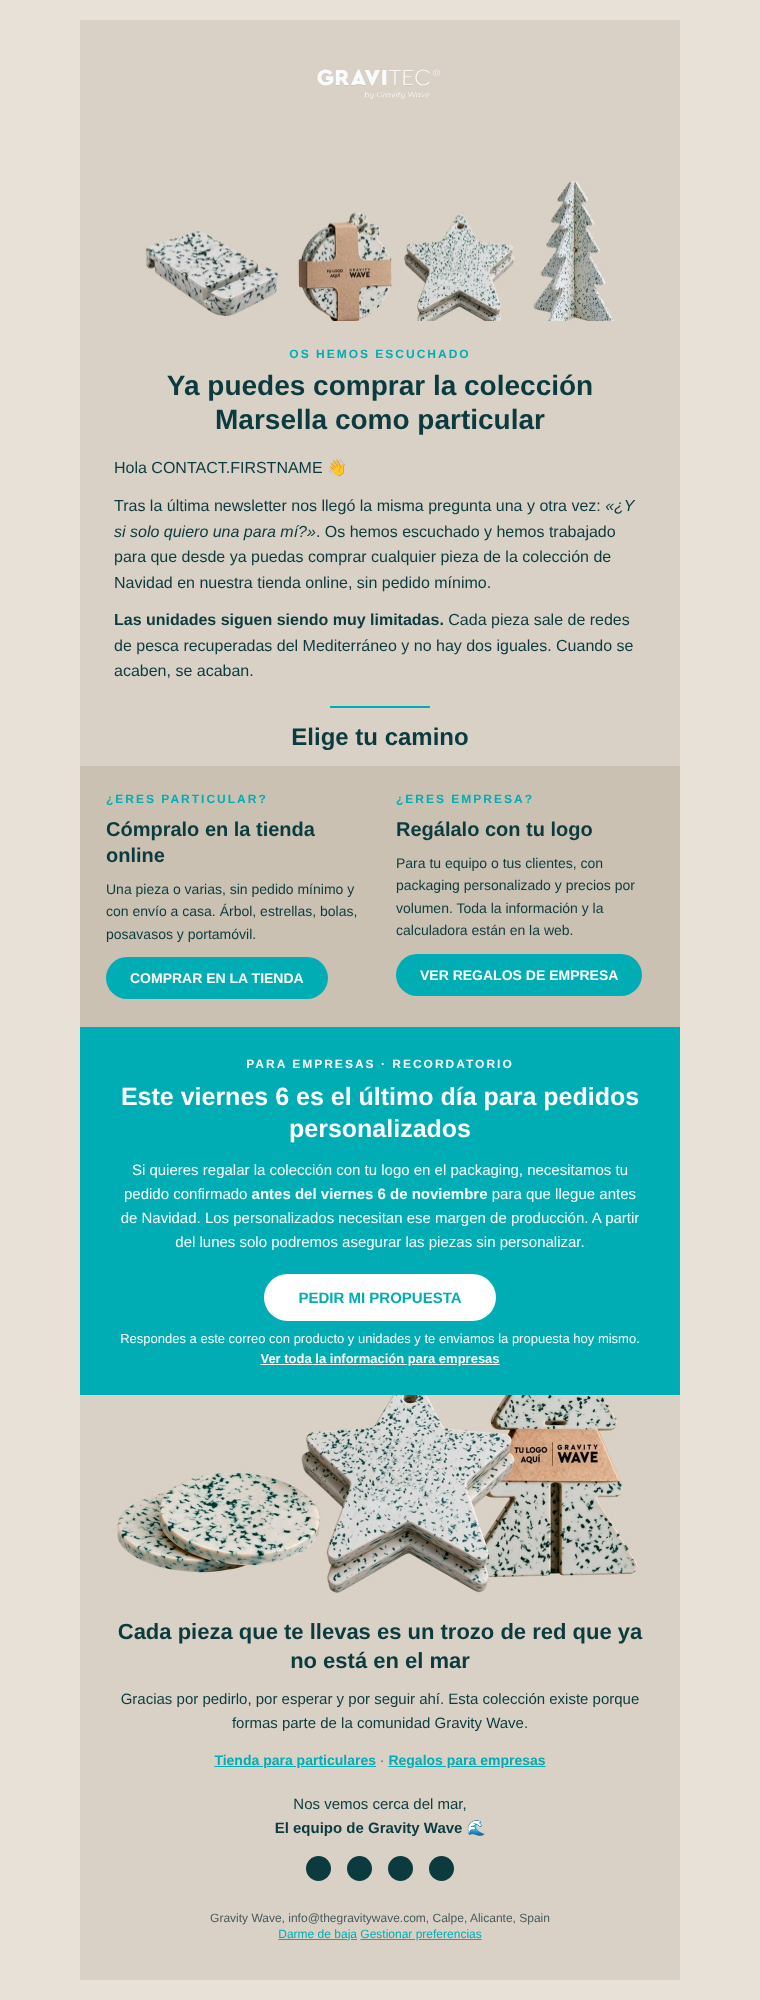
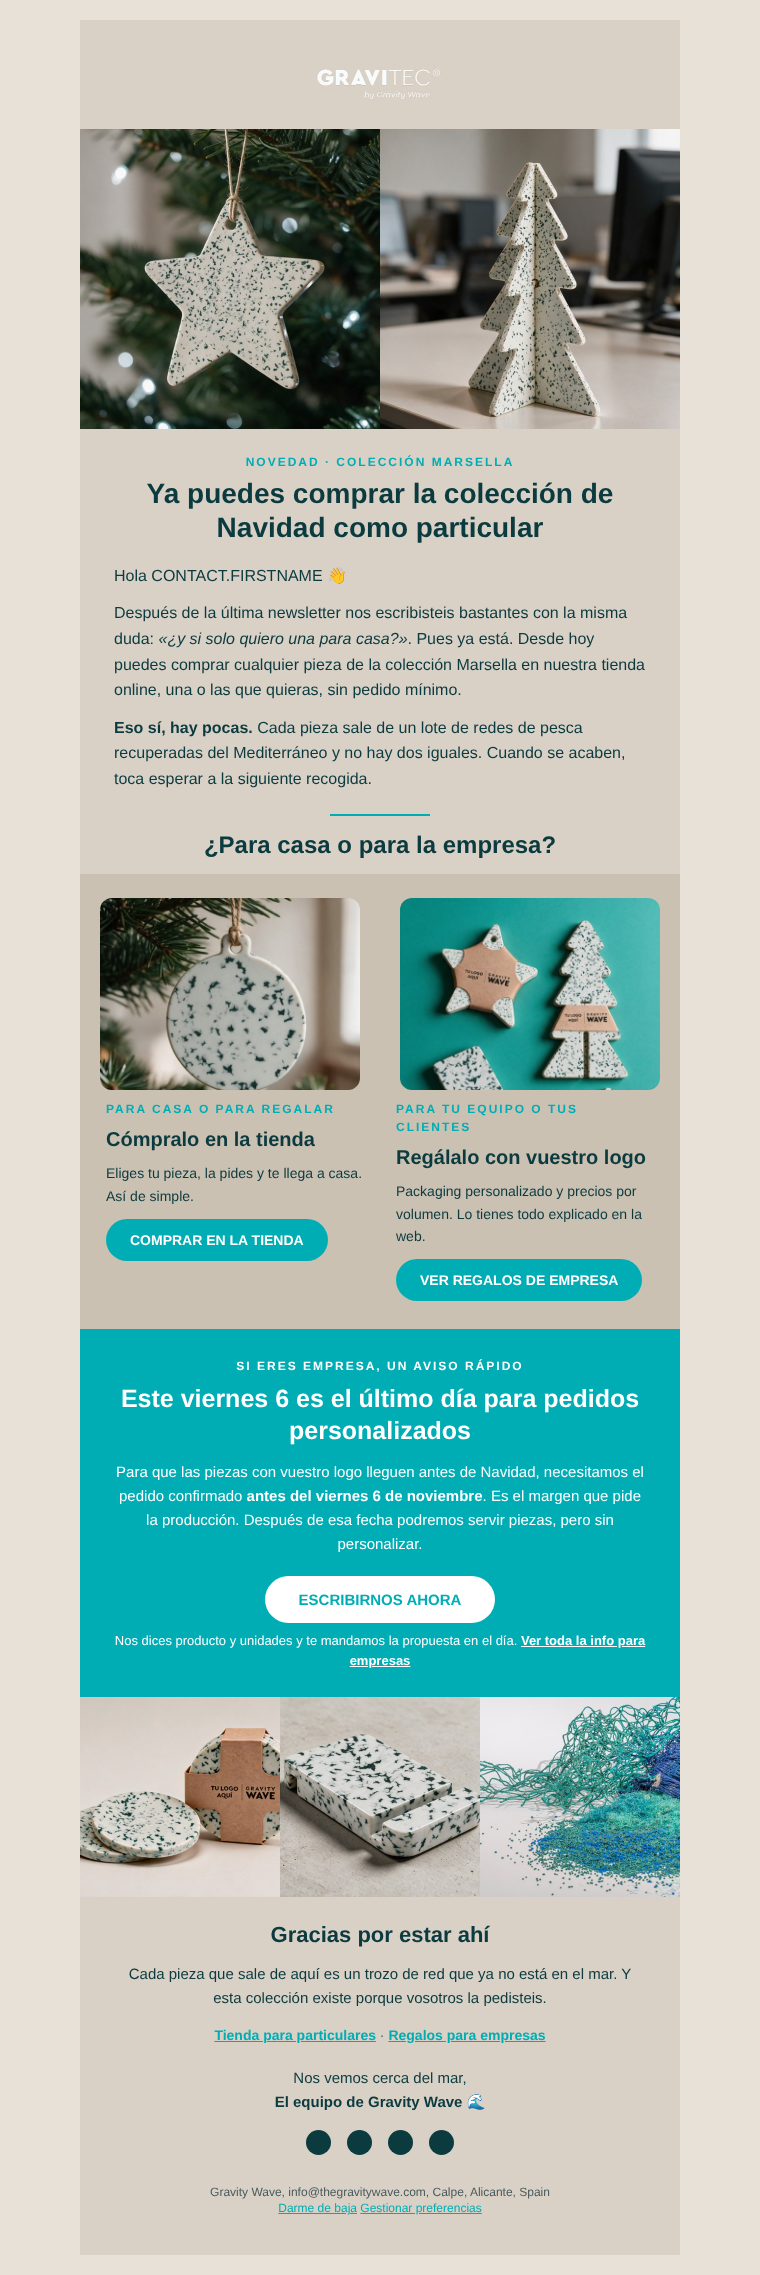
Versión natural de la segunda newsletter con fotos lifestyle
Claude-Session: https://claude.ai/code/session_01C1yFWjXLmKQLtW2AoFAQFj

diff --git a/newsletter-navidad-2026-v2/README.md b/newsletter-navidad-2026-v2/README.md
@@ -13,17 +13,16 @@ Segunda campaña de la colección Marsella, creada en HubSpot el 4/11/2026.
 2. Unidades muy limitadas (cada pieza nace de un lote de redes).
 3. Recordatorio B2B: el viernes 6 de noviembre es el último día para pedidos personalizados que lleguen antes de Navidad.
 
-## Estructura (versión simplificada, 4/11/2026)
-1. Logo + cabecera con las cuatro piezas (imagen general).
-2. Intro: os hemos escuchado, compra sin pedido mínimo, unidades muy limitadas.
-3. «Elige tu camino», dos columnas sobre arena oscura:
-   - ¿Eres particular? → botón COMPRAR EN LA TIENDA → https://store.thegravitywave.com/
-   - ¿Eres empresa? → botón VER REGALOS DE EMPRESA → https://www.thegravitywave.com/regalos-corporativos-navidad/
-4. Banda turquesa: recordatorio B2B, viernes 6 último día para personalizados. Botón PEDIR MI PROPUESTA (mailto info@) y enlace a la web de empresas.
-5. Bodegón de cierre + agradecimiento + enlaces tienda/empresas + firma + redes + pie.
-
-Sin parrilla de productos ni precios: los ven en la tienda o en la web.
+## Estructura (versión natural con lifestyle, 4/11/2026)
+1. Logo + cabecera lifestyle: estrella en un abeto (casa) | árbol en una mesa de oficina (empresa).
+2. Intro en tono natural: nos escribisteis, ya se puede comprar sin mínimo, hay pocas unidades.
+3. «¿Para casa o para la empresa?», dos columnas sobre arena oscura, cada una con su foto de contexto:
+   - Para casa o para regalar → COMPRAR EN LA TIENDA → https://store.thegravitywave.com/
+   - Para tu equipo o tus clientes → VER REGALOS DE EMPRESA → https://www.thegravitywave.com/regalos-corporativos-navidad/
+4. Banda turquesa: aviso rápido B2B, viernes 6 último día para personalizados. Botón ESCRIBIRNOS AHORA (mailto info@) y enlace a la web de empresas.
+5. Tríptico lifestyle (posavasos, portamóvil, redes) + «Gracias por estar ahí» + enlaces + firma + redes + pie.
 
 ## Imágenes
-`assets/newsletter-navidad-2026-v2/hero-lineup.jpg` y `banner-bodegon.jpg` (recortes del catálogo Marsella 2026). Las tarjetas de producto de esa carpeta ya no se usan en el correo.
+`assets/newsletter-navidad-2026-v2/`: hero-lifestyle.jpg (1200x600), col-casa.jpg y col-empresa.jpg (540x400), banner-lifestyle.jpg (1200x400).
+Compuestas a partir de las fotos lifestyle de la primera newsletter (`assets/newsletter-navidad-2026/`).
 Servidas desde raw.githubusercontent.com en esta rama; si se borra la rama, subirlas antes al gestor de archivos de HubSpot.
